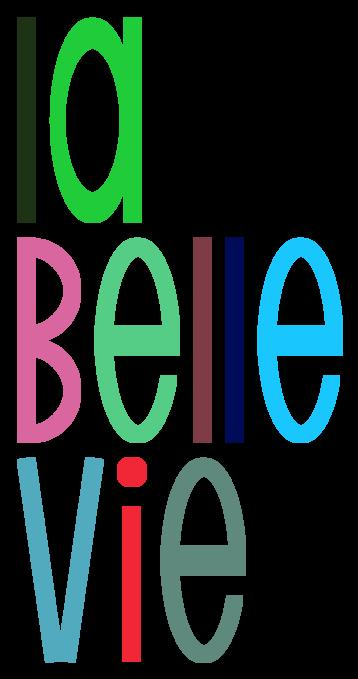
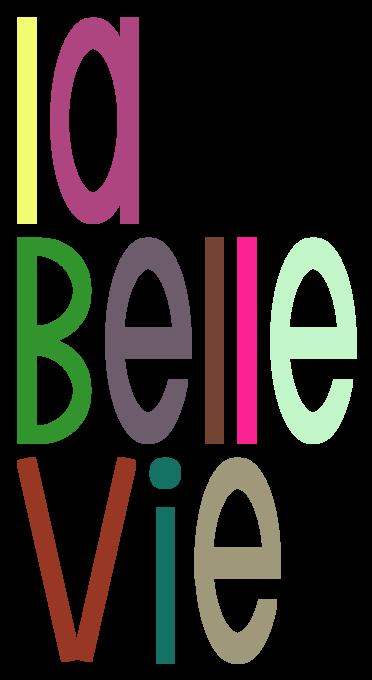
la belle vie!

diff --git a/src/tp1/LetterFactory.java b/src/tp1/LetterFactory.java
@@ -169,21 +169,24 @@ public final class LetterFactory {
         Rectangle rectangle = new Rectangle(halfStripeThickness, maxHeight);
         Circle cercleHaut = new Circle(halfMaxHeight/2);
         Circle cercleBas = new Circle(halfMaxHeight/2);
-        Rectangle demiCercle = new Rectangle(halfMaxHeight/2,maxHeight);
-        //Circle creux = new Circle((halfMaxHeight/2)-halfStripeThickness);
+        Circle creuxHaut = new Circle((halfMaxHeight/2)-halfStripeThickness);
+        Circle creuxBas = new Circle((halfMaxHeight/2)-halfStripeThickness);
+        Rectangle demiCercle = new Rectangle(halfMaxHeight/2, maxHeight);
 
-        demiCercle.translate(new Point2d(-maxWidth, -maxHeight));
-
-        cercleHaut.translate(new Point2d(-(maxWidth+halfStripeThickness), -(halfMaxHeight+halfMaxHeight/2)));
+        cercleHaut.translate(new Point2d(-(maxWidth+halfStripeThickness), 0.0));
         cercleBas.translate(new Point2d(-(maxWidth+halfStripeThickness), -(halfMaxHeight)));
-
-        rectangle.translate(new Point2d(-(maxWidth+halfMaxWidth), -maxHeight));
+        creuxHaut.translate(new Point2d(-(maxWidth+halfStripeThickness), 0.0));
+        creuxBas.translate(new Point2d(-(maxWidth+halfStripeThickness), -(halfMaxHeight)));
+        demiCercle.translate(new Point2d(-(maxWidth*2), -(maxHeight-halfMaxHeight/2)));
+        rectangle.translate(new Point2d(-(maxWidth+halfMaxWidth-10.0), -(halfMaxWidth*3.5+10.0)));
 
         B.add(cercleHaut);
-       // B.remove(creux);
+        B.remove(creuxHaut);
         B.add(cercleBas);
-        //B.remove(demiCercle);
-       // B.add(rectangle);
+        B.remove(creuxBas);
+        B.remove(demiCercle);
+        B.add(rectangle);
+
 
         return B;
     }

diff --git a/src/tp1/Main.java b/src/tp1/Main.java
@@ -10,16 +10,16 @@ public class Main {
     public static void main(String[] args) throws Exception {
         System.out.println("Bienvenue au premier labo de INF2010!");
         LetterPlacer letterPlacer = new LetterPlacer();
-        //letterPlacer.placeNext('l');
-        //letterPlacer.placeNext('a');
+        letterPlacer.placeNext('l');
+        letterPlacer.placeNext('a');
         letterPlacer.placeNextln('B');
-        //letterPlacer.placeNext('e');
-        //letterPlacer.placeNext('l');
-        //letterPlacer.placeNext('l');
-        //letterPlacer.placeNext('e');
-        //letterPlacer.placeNextln('V');
-        //letterPlacer.placeNext('i');
-        //letterPlacer.placeNext('e');
+        letterPlacer.placeNext('e');
+        letterPlacer.placeNext('l');
+        letterPlacer.placeNext('l');
+        letterPlacer.placeNext('e');
+        letterPlacer.placeNextln('V');
+        letterPlacer.placeNext('i');
+        letterPlacer.placeNext('e');
 
         // Test autres lettres
         //letterPlacer.placeNext('C');

diff --git a/src/tp1/BaseShape.java b/src/tp1/BaseShape.java
@@ -35,7 +35,8 @@ public class BaseShape implements Cloneable {
         return this;
     }
     public BaseShape remove(BaseShape shape) {
-        this.coords.removeAll(shape.getCoords());
+        //coords.removeAll(shape.getCoords());
+        removeAll(shape.getCoords());
         return this;
     }
     public BaseShape removeAll(Collection<Point2d> coords) {
